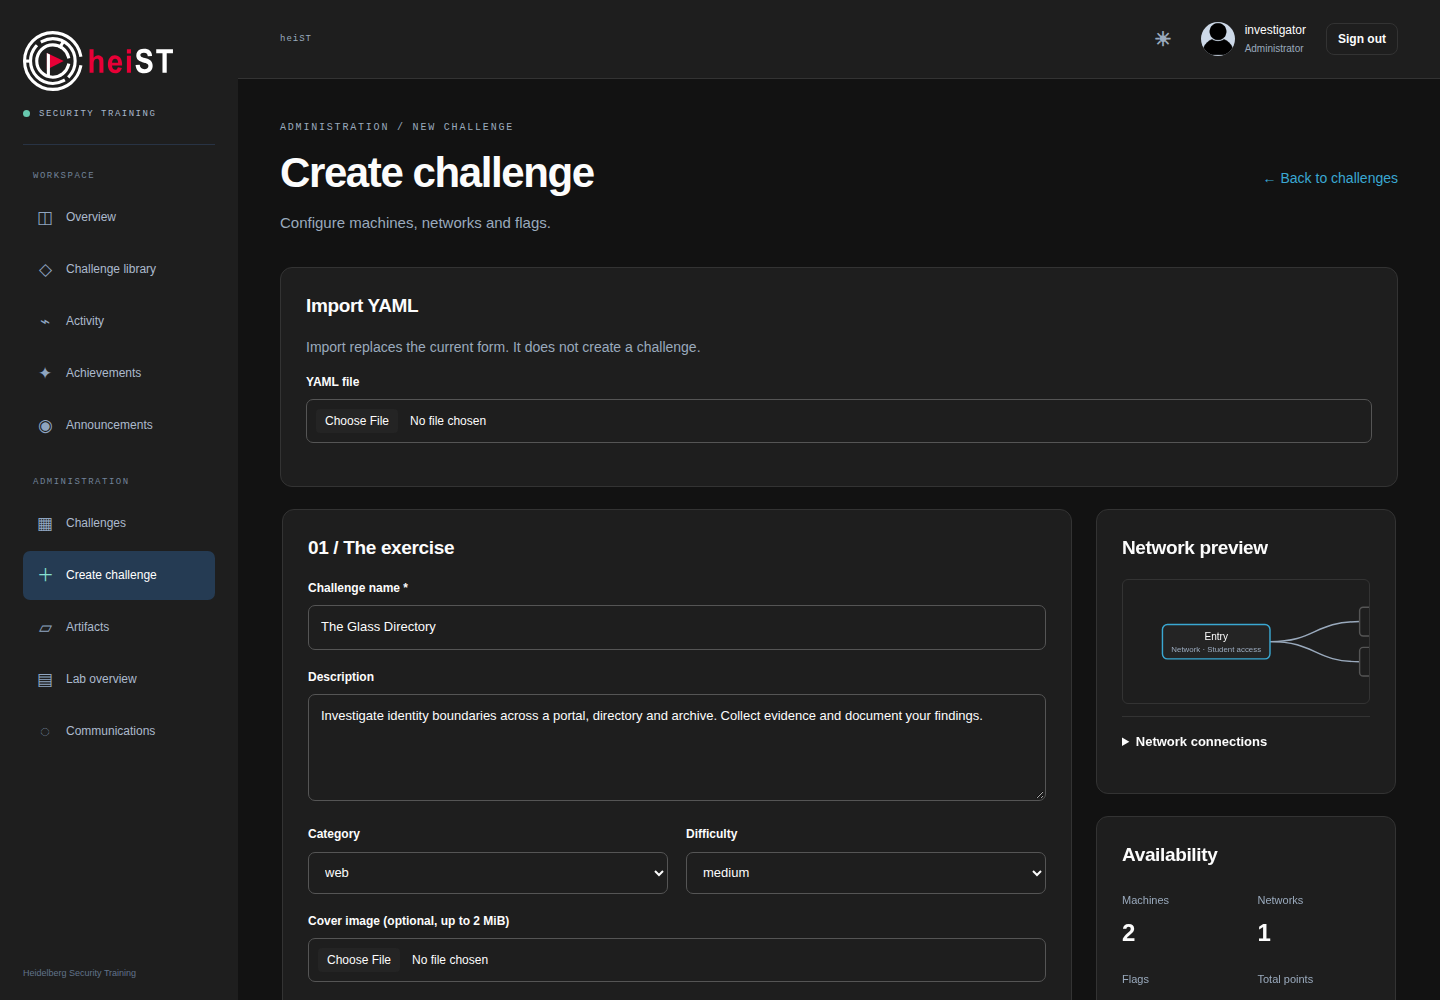
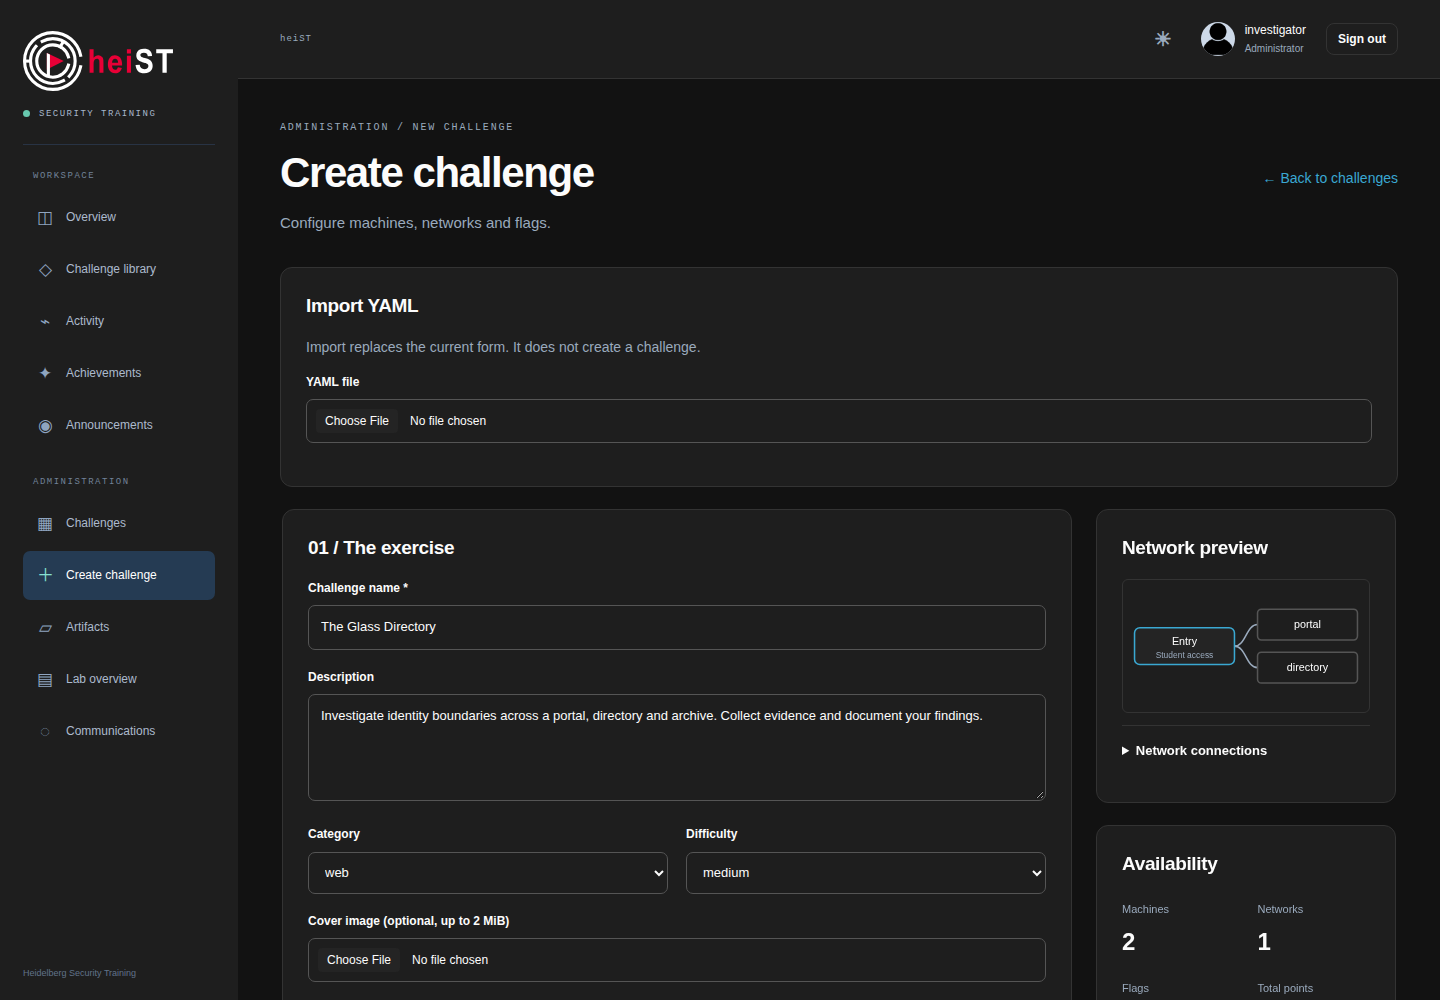
Fit the live network preview within narrow editor cards

diff --git a/frontend/src/components/NetworkPreview.tsx b/frontend/src/components/NetworkPreview.tsx
@@ -7,19 +7,19 @@ export function NetworkPreview({machines, networks}: {machines: TopologyMachine[
   return <Card title="Network preview">
     {!machines.length && !networks.length ? <p className="muted">Add machines and networks to preview their connections.</p> : <>
       <div className="topology-scroll" tabIndex={0} role="region" aria-label="Scrollable network diagram">
-        <svg className="topology-diagram" viewBox={`0 0 530 ${graph.height}`} role="img" aria-labelledby={id}>
+        <svg className="topology-diagram" viewBox={`0 0 320 ${graph.height}`} role="img" aria-labelledby={id}>
           <title id={id}>Challenge network preview</title>
           {graph.edges.map(edge => <path key={edge.network+':'+edge.machine} d={edge.path} className="topology-edge" data-network={edge.network} data-machine={edge.machine} />)}
           {graph.networks.map((net,i) => <g key={net.key} className={'topology-network'+(net.dmz ? ' dmz' : '')}>
             <title>{label(net.name,`Network ${i+1}`)}{net.accessible ? ' · Student access' : ''}{net.dmz ? ' · DMZ' : ''}</title>
-            <rect x={net.x-75} y={net.y-24} width="150" height="48" rx="7" />
-            <text x={net.x} y={net.y-2} textAnchor="middle">{label(net.name,`Network ${i+1}`).slice(0,20)}</text>
-            <text x={net.x} y={net.y+15} textAnchor="middle" className="topology-detail">{net.dmz ? 'DMZ' : 'Network'}{net.accessible ? ' · Student access' : ''}</text>
+            <rect x={net.x-65} y={net.y-24} width="130" height="48" rx="7" />
+            <text x={net.x} y={net.y-2} textAnchor="middle">{label(net.name,`Network ${i+1}`).slice(0,16)}</text>
+            <text x={net.x} y={net.y+15} textAnchor="middle" className="topology-detail">{net.dmz ? (net.accessible ? 'DMZ · Student access' : 'DMZ') : net.accessible ? 'Student access' : 'Network'}</text>
           </g>)}
           {graph.machines.map((vm,i) => <g key={vm.key} className="topology-machine">
             <title>{label(vm.name,`Machine ${i+1}`)}</title>
-            <rect x={vm.x-70} y={vm.y-20} width="140" height="40" rx="5" />
-            <text x={vm.x} y={vm.y+5} textAnchor="middle">{label(vm.name,`Machine ${i+1}`).slice(0,20)}</text>
+            <rect x={vm.x-65} y={vm.y-20} width="130" height="40" rx="5" />
+            <text x={vm.x} y={vm.y+5} textAnchor="middle">{label(vm.name,`Machine ${i+1}`).slice(0,16)}</text>
           </g>)}
         </svg>
       </div>

diff --git a/frontend/src/lib/topology.ts b/frontend/src/lib/topology.ts
@@ -3,12 +3,12 @@ export type TopologyNetwork = {key: string; name: string; accessible: boolean; d
 export function topology(machines: TopologyMachine[], networks: TopologyNetwork[]) {
   const height = Math.max(160, Math.max(machines.length, networks.length) * 66 + 40);
   const position = (index: number, length: number) => 30 + (index + .5) * (height - 60) / Math.max(1, length);
-  const vms = machines.map((vm, i) => ({...vm, x: 400, y: position(i, machines.length)}));
-  const nets = networks.map((net, i) => ({...net, x: 130, y: position(i, networks.length)}));
+  const vms = machines.map((vm, i) => ({...vm, x: 240, y: position(i, machines.length)}));
+  const nets = networks.map((net, i) => ({...net, x: 80, y: position(i, networks.length)}));
   const byKey = new Map(vms.map(vm => [vm.key, vm]));
   const edges = nets.flatMap(net => [...new Set(net.machines)].flatMap(key => {
     const vm = byKey.get(key);
-    return vm ? [{network: net.key, machine: key, path: `M 205 ${net.y} C 270 ${net.y}, 265 ${vm.y}, 330 ${vm.y}`}] : [];
+    return vm ? [{network: net.key, machine: key, path: `M 145 ${net.y} C 160 ${net.y}, 160 ${vm.y}, 175 ${vm.y}`}] : [];
   }));
   return {height, machines: vms, networks: nets, edges};
 }

diff --git a/frontend/src/styles.css b/frontend/src/styles.css
@@ -1825,7 +1825,7 @@ dialog .button-row {
 .legal-acceptance {align-items:flex-start}
 .legal-acceptance span {min-width:0;overflow-wrap:anywhere}
 .topology-scroll {overflow:auto;max-height:360px;border:1px solid var(--line);border-radius:6px;margin-bottom:12px}
-.topology-diagram {display:block;width:100%;min-width:380px;font-size:14px}
+.topology-diagram {display:block;width:100%;font-size:14px}
 .topology-edge {fill:none;stroke:var(--muted);stroke-width:2}
 .topology-network rect {fill:var(--subtle);stroke:var(--blue);stroke-width:2}
 .topology-network.dmz rect {stroke:var(--amber)}

diff --git a/tests/browser/ui_layout.py b/tests/browser/ui_layout.py
@@ -181,6 +181,17 @@ class LayoutTests(BrowserFixture):
         self.page.get_by_role('checkbox',name='Target',exact=True).check()
         diagram=self.page.get_by_role('img',name='Challenge network preview')
         self.assertEqual(diagram.locator('path.topology-edge').count(),1)
+        for width in (320, 390, 768, 1440):
+            self.page.set_viewport_size({'width':width,'height':1000})
+            self.assertTrue(diagram.evaluate('''svg => {
+                const region = svg.parentElement;
+                const bounds = region.getBoundingClientRect();
+                return region.scrollWidth <= region.clientWidth + 1 &&
+                    [...svg.querySelectorAll('rect')].every(node => {
+                        const box = node.getBoundingClientRect();
+                        return box.left >= bounds.left && box.right <= bounds.right;
+                    });
+            }'''),f'Network or machine clipped at width {width}')
         self.page.get_by_role('checkbox',name='DMZ',exact=True).check()
         self.assertEqual(diagram.locator('.topology-network.dmz').count(),1)
         self.page.get_by_role('button',name='Remove machine',exact=True).click()
